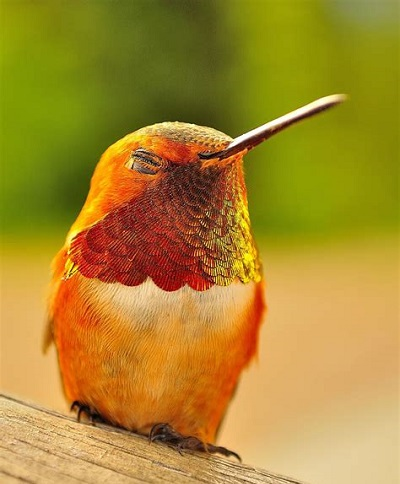
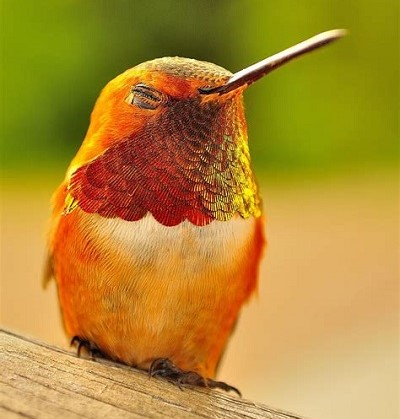
removing height for now

diff --git a/2_2_blank_boostrap_site/slideshow.html b/2_2_blank_boostrap_site/slideshow.html
@@ -31,46 +31,46 @@
 
     <div id="slideshow-container">
         <div class="slides"><!--1-->
-            <img src="./images/audubon_org.jpg" alt="a hummingbird from audubon dot org" width="400" height="360">
+            <img src="./images/audubon_org.jpg" alt="a hummingbird from audubon dot org" width="400">
         </div>
         <div class="slides"><!--2-->
-            <img src="./images/birdwatchingdaily.jfif" alt="a hummingbird from birdwatchingdaily dot com" width="400" height="360">
+            <img src="./images/birdwatchingdaily.jfif" alt="a hummingbird from birdwatchingdaily dot com" width="400">
         </div>
         <div class="slides"><!--3-->
-            <img src="./images/boredpanda_com.jpg" alt="a hummingbird from bored panda dot com" width="400" height="360">
+            <img src="./images/boredpanda_com.jpg" alt="a hummingbird from bored panda dot com" width="400">
         </div>
         <div class="slides"><!--4-->
-            <img src="./images/cameoglassuk.jfif" alt="a hummingbird from cameo glass uk dot uk" width="400" height="360">
+            <img src="./images/cameoglassuk.jfif" alt="a hummingbird from cameo glass uk dot uk" width="400">
         </div>
         <div class="slides"><!--5-->
-            <img src="./images/celebrateurbanbirds_com.jpg" alt="a hummingbird from celebrate urban birds dot org" width="400" height="360">
+            <img src="./images/celebrateurbanbirds_com.jpg" alt="a hummingbird from celebrate urban birds dot org" width="400">
         </div>
         <div class="slides"><!--6-->
-            <img src="./images/climate_audobon_org.jpg" alt="a hummingbird from Climate audubon dot org" width="400" height="360">
+            <img src="./images/climate_audobon_org.jpg" alt="a hummingbird from Climate audubon dot org" width="400">
         </div>
         <div class="slides"><!--7-->
-            <img src="./images/earthsky_org.jpg" alt="a hummingbird from Earth Sky dot org" width="400" height="360">
+            <img src="./images/earthsky_org.jpg" alt="a hummingbird from Earth Sky dot org" width="400">
         </div>
         <div class="slides"><!--8-->
-            <img src="./images/feathertailedstories_blogspot.jpg" alt="a hummingbird from Feather Tailed Stories dot blogspot dot com" width="400" height="360">
+            <img src="./images/feathertailedstories_blogspot.jpg" alt="a hummingbird from Feather Tailed Stories dot blogspot dot com" width="400">
         </div>
         <div class="slides"><!--9-->
-            <img src="./images/friendsofanimals_org.jpg" alt="a hummingbird from friends of animals dot com" width="400" height="360">
+            <img src="./images/friendsofanimals_org.jpg" alt="a hummingbird from friends of animals dot com" width="400">
         </div>
         <div class="slides"><!--10-->
-                <img src="./images/funwithflorafaunaandfungi_blogs.jpg" alt="a hummingbird from fun with flora fauna and fungi blogspot dot com" width="400" height="360">
+                <img src="./images/funwithflorafaunaandfungi_blogs.jpg" alt="a hummingbird from fun with flora fauna and fungi blogspot dot com" width="400">
         </div>
         <div class="slides"><!--11-->
-            <img src="./images/hdwawalle_com.jpg" alt="a hummingbird from hdwawalle dot com" width="400" height="360">
+            <img src="./images/hdwawalle_com.jpg" alt="a hummingbird from hdwawalle dot com" width="400">
         </div>
         <div class="slides"><!--12-->
-            <img src="./images/naturedocumentaries_org.jpg" alt="a hummingbird from nature documentaries dot org" width="400" height="360">
+            <img src="./images/naturedocumentaries_org.jpg" alt="a hummingbird from nature documentaries dot org" width="400">
         </div>
         <div class="slides"><!--13-->
-            <img src="./images/sciencemagpic.jfif" alt="a hummingbird from science magazine dot com" width="400" height="360">
+            <img src="./images/sciencemagpic.jfif" alt="a hummingbird from science magazine dot com" width="400">
         </div>
         <div class="slides"><!--14-->
-            <img src="./images/theawesomedaily.jfif" alt="a hummingbird from the awesome daily dot com" width="400" height="360">
+            <img src="./images/theawesomedaily.jfif" alt="a hummingbird from the awesome daily dot com" width="400">
         </div>
         <div class="slides"><!--15-->
             <img src="./images/theawesomedaily_com.jpg" alt="a hummingbird from the awesome daily dot com" width="400" height="360">
